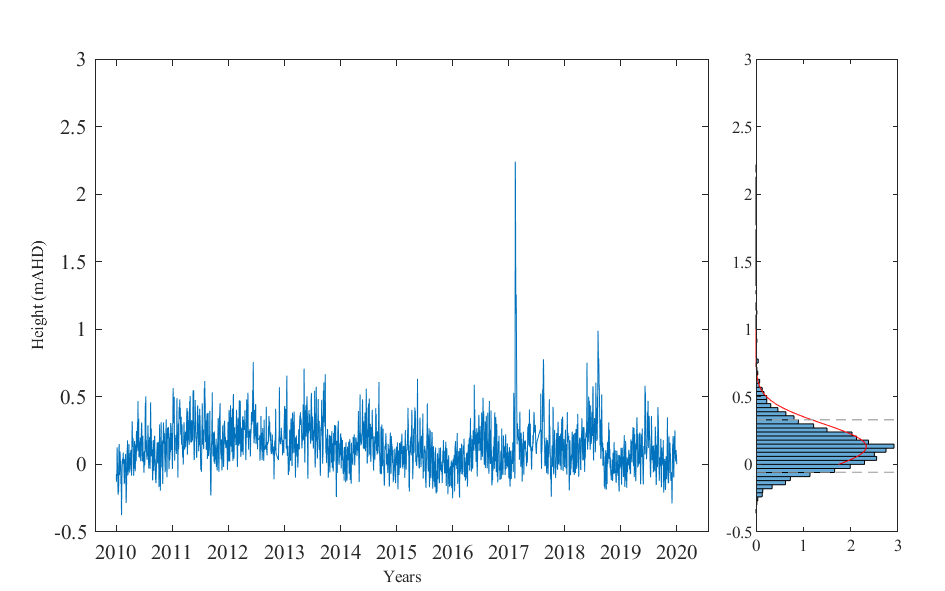
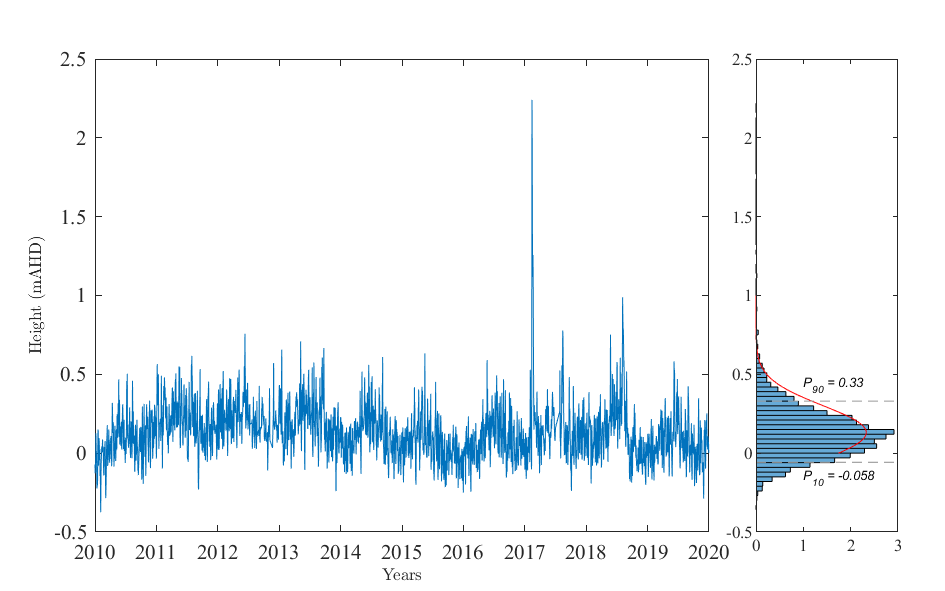
updated code

diff --git a/matlab/river_probability_distribution/prob_dist_plot.m b/matlab/river_probability_distribution/prob_dist_plot.m
@@ -19,15 +19,16 @@ P = prctile(level,[10 90]);
 
 fig = figure
 
-% set(fig,'defaultTextInterpreter','latex')
-% set(0,'DefaultAxesFontName','Times')
+ set(fig,'defaultTextInterpreter','latex')
+ set(fig,'DefaultAxesFontName','Times')
 % 
 % set(gca,'TickLabelInterpreter','latex')
 
 ax2 = axes('position',[0.1 0.1 0.65 0.8]);
 
 plot(ldate,level);
-ylim([-0.5 3]);
+ylim([-0.5 2.5]);
+xlim([datearray(1) datearray(end)]);
 
 set(gca,'xtick',datearray,'xticklabel',datestr(datearray,'yyyy'));
 
@@ -38,10 +39,14 @@ ax2 = axes('position',[0.8 0.1 0.15 0.8]);
 
 histogram(ax2,level,'Normalization','pdf','Orientation','horizontal');
 line(ax2,y,x_pdf,'color','r');hold on
-ylim([-0.5 3]);
+ylim([-0.5 2.5]);
 
 plot(ax2,[0 3],[P(1) P(1)],'--','color',[0.6 0.6 0.6]);
 plot(ax2,[0 3],[P(2) P(2)],'--','color',[0.6 0.6 0.6]);
+
+text(ax2,1,P(1)-0.1,['\itP_{10}',' = ',num2str(P(1))],'fontsize',6,'interpreter','tex');
+text(ax2,1,P(2)+0.1,['\itP_{90}',' = ',num2str(P(2))],'fontsize',6,'interpreter','tex');
+
 
 
 set(gcf, 'PaperPositionMode', 'manual');
